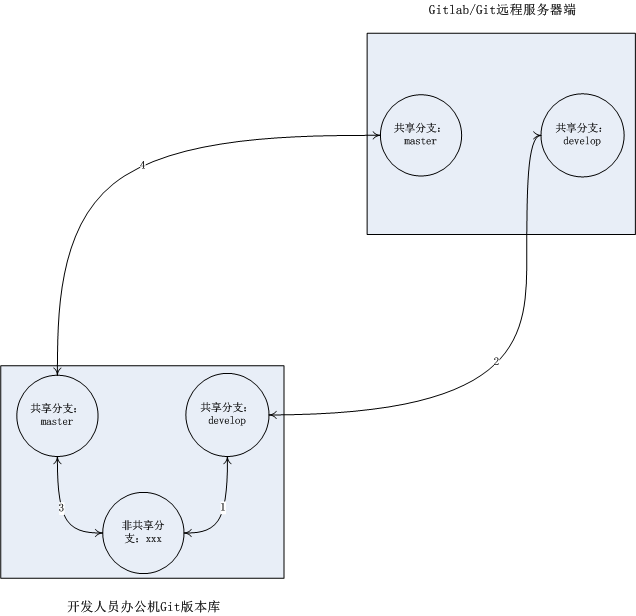
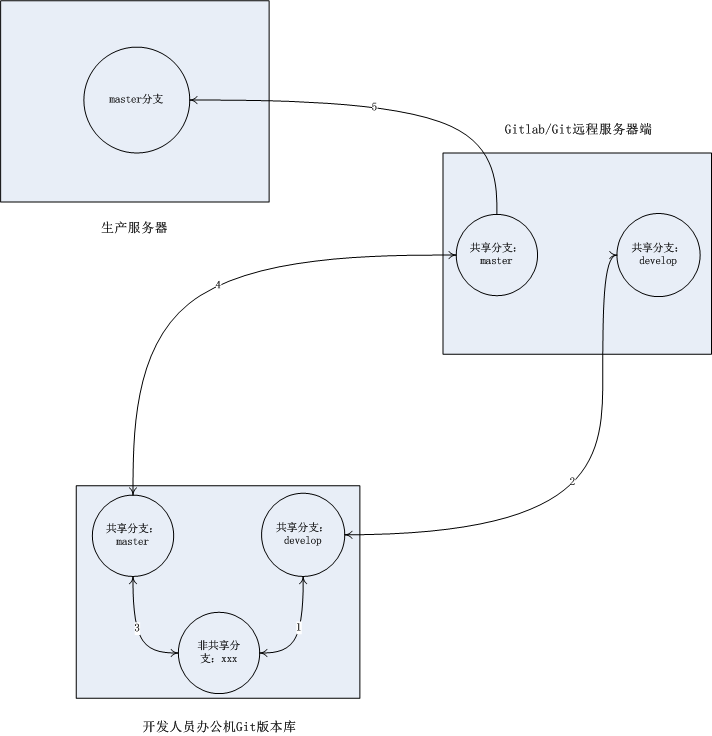
update

diff --git a/_posts/2013-10-15-standardization-operations-development.md b/_posts/2013-10-15-standardization-operations-development.md
@@ -82,6 +82,12 @@ ssh远程连接到生产服务器（Linux），vim打开一个新文件，复制
 
 ![our-git-workflow](https://raw.github.com/youngsterxyf/youngsterxyf.github.com/master/assets/pics/git-workflow.png)
 
+Git远程服务器端和办公机端版本库都保持两个共享分支：master和develop。master分支是稳定分支，其最新代码与生产服务器上的代码一致。develop是测试分支。
+
+开发人员开发新功能或fix bug时，先在本地机器从master分支创建一个非共享分支xxx，在xxx分支中编写代码；需要在测试服务器测试代码时，将xxx分支合并入develop分支，将develop分支push到远程服务器；
+经测试后，确定需要上线生产服务器，则将xxx分支合并入master分支，并push远程服务器，生产服务器从master分支pull代码进行部署。
+
+这种工作流能避免“先提交的代码后上线”而导致的版本回滚问题。
 
 ### 生产服务器上的代码迁入版本控制
 
